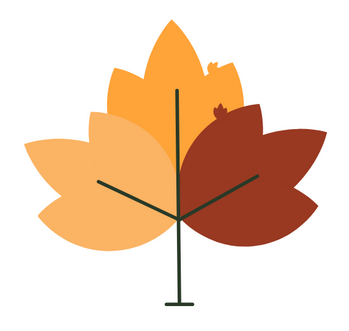
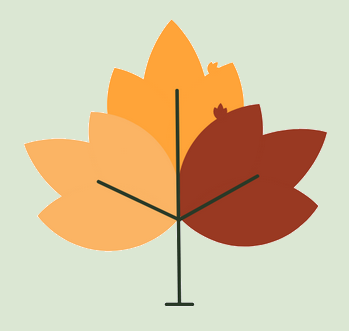
Changes to date in points history + authstore to make OAuth work + minor changes to forgot password

diff --git a/app/(modals)/points-history.jsx b/app/(modals)/points-history.jsx
@@ -15,62 +15,26 @@ import Gifts from "../../assets/images/Gifts.png";
 import Journal from "../../assets/images/Journal.png";
 import Breathe from "../../assets/images/Heart4.png";
 import Star from "../../assets/images/Star.png";
+import { getHabitTranslation } from '../../constants/habitTranslations';
+
 
 export default function PointsHistory() {
   const router = useRouter();
   const { t,currentLanguage } = useTranslation();
   const { pointsHistory, points, level, getLevelName,userHabits } = useAuthStore();
   
-  const toCamel = (id = '') =>
-    id
-      .split(/[^a-zA-Z0-9]+/)
-      .filter(Boolean)
-      .map((part, i) =>
-        i === 0 ? part.toLowerCase() : part.charAt(0).toUpperCase() + part.slice(1)
-      )
-      .join('');
-
-  // Get habit name from habit ID
   const getHabitName = (habitId) => {
-    const habit = userHabits.find(h => h.id === habitId);
-    if (!habit) {
-      // Try to get from translations if habit was removed
-      const key = `goals.${toCamel(habitId)}`;
-      const translated = t(key);
-      if (translated !== key) return translated;
-      
-      // Fallback: prettify the ID
-      return habitId.split('-').map(w => w.charAt(0).toUpperCase() + w.slice(1)).join(' ');
-    }
-
-    // Use the same logic as habit-stats getHabitText
-    if (habit.titleKey && typeof habit.titleKey === 'string') {
-      const translated = t(habit.titleKey);
-      if (translated !== habit.titleKey) return translated;
-    }
-
-    if (habit.text && typeof habit.text === 'string' && habit.text.includes('.')) {
-      const translated = t(habit.text);
-      if (translated !== habit.text) return translated;
-    }
-
-    if (habit.id) {
-      const key = `goals.${toCamel(habit.id)}`;
-      const translated = t(key);
-      if (translated !== key) return translated;
-    }
-
-    if (habit.title && typeof habit.title === 'string' && habit.title.length > 0) {
-      return habit.title;
-    }
-    if (habit.text && typeof habit.text === 'string' && habit.text.length > 0) {
-      return habit.text;
-    }
-
-    return habit.id
-      ? habit.id.split('-').map(w => w.charAt(0).toUpperCase() + w.slice(1)).join(' ')
-      : 'Habit';
-  };
+  const habit = userHabits.find(h => h.id === habitId);
+  
+  // If habit exists and has stored text/title, use it
+  if (habit) {
+    if (habit.text && !habit.text.includes('.')) return habit.text;
+    if (habit.title && !habit.title.includes('.')) return habit.title;
+  }
+  
+  // Otherwise use the centralized translation helper
+  return getHabitTranslation(habitId, t);
+};
 
   const getSourceIcon = (source) => {
     if (source.includes('habit')) return Notes;
@@ -133,7 +97,12 @@ export default function PointsHistory() {
 
   // Flattened list with date headers
   const flattenedData = Object.entries(groupedHistory)
-    .sort(([dateA], [dateB]) => new Date(dateB) - new Date(dateA)) // Sort by date desc
+    .sort(([dateA, itemsA], [dateB, itemsB]) => {
+  // Compare using the actual timestamps from the items
+  const timeA = new Date(itemsA[0].timestamp).getTime();
+  const timeB = new Date(itemsB[0].timestamp).getTime();
+  return timeB - timeA; // Newest (today) first
+}) // Sort by date desc
     .flatMap(([date, items]) => {
       const habitCount = items.filter(item => item.source.includes('habit-') && !item.source.includes('-undo')).length;
       const totalPoints = items.reduce((sum, item) => sum + item.amount, 0);
@@ -312,6 +281,7 @@ const styles = StyleSheet.create({
     //borderBottomWidth: 1,
     //borderBottomColor: '#e0e0e0',
     marginTop: 10,
+    marginBottom:10
     
   },
   dateHeaderLeft: {
@@ -325,6 +295,7 @@ const styles = StyleSheet.create({
   dateText: {
     fontSize: 16,
     color: '#333',
+    alignItems: 'center',
   },
   habitCountText: {
     fontSize: 12,

diff --git a/constants/habitTranslations.js b/constants/habitTranslations.js
@@ -1,0 +1,65 @@
+/**
+ * Get the translated habit title from a habit ID
+ * Handles all habit types: foundational, common, category-specific, and goal ideas
+ */
+export const getHabitTranslation = (habitId, t) => {
+  // Map of habit IDs to their translation keys
+  const translationKeyMap = {
+    // Foundational habits
+    'complete-goal': 'habits.foundation.dailyGoal',
+    'reflection': 'habits.foundation.writeReflection',
+    'affirmation': 'habits.foundation.affirmations',
+    'exercise': 'habits.foundation.exercise',
+    
+    // Common habits (with .title suffix)
+    'water-intake': 'habits.common.waterIntake.title',
+    'no-screen-before-bed': 'habits.common.noScreenBeforeBed.title',
+    'morning-exercise': 'habits.common.morningExercise.title',
+    'eat-fruit': 'habits.common.eatFruit.title',
+    'practice-gratitude': 'habits.common.practiceGratitude.title',
+    'pray': 'habits.common.pray.title',
+    'read-book': 'habits.common.readBook.title',
+    'breathing-exercises': 'habits.common.breathingExercises.title',
+    'reduce-sugar': 'habits.common.reduceSugar.title',
+    'anxiety-journal': 'habits.common.anxietyJournal.title',
+    'organize-space': 'habits.common.organizeSpace.title',
+    'take-breaks': 'habits.common.takeBreaks.title',
+    
+    // Category-specific habits (with .title suffix)
+    'deep-breathing': 'habits.anxietyManagement.deepBreathing.title',
+    'limit-caffeine': 'habits.anxietyManagement.limitCaffeine.title',
+    'sunlight-exposure': 'habits.depressionSupport.sunlightExposure.title',
+    'social-connection': 'habits.depressionSupport.socialConnection.title',
+    'bedtime-routine': 'habits.sleepIssues.bedtimeRoutine.title',
+    'bedroom-temperature': 'habits.sleepIssues.bedroomTemperature.title',
+    'meditation': 'habits.stressManagement.meditation.title',
+    'nature-time': 'habits.stressManagement.natureTime.title',
+  };
+
+  // 1. Check if we have an explicit mapping
+  if (translationKeyMap[habitId]) {
+    const translated = t(translationKeyMap[habitId]);
+    if (translated !== translationKeyMap[habitId]) {
+      return translated;
+    }
+  }
+
+  // 2. Try goals.* pattern (for goal ideas from goalIdeas.jsx)
+  const toCamel = (id) =>
+    id
+      .split(/[^a-zA-Z0-9]+/)
+      .filter(Boolean)
+      .map((part, i) =>
+        i === 0 ? part.toLowerCase() : part.charAt(0).toUpperCase() + part.slice(1)
+      )
+      .join('');
+      
+  const goalKey = `goals.${toCamel(habitId)}`;
+  const goalTranslated = t(goalKey);
+  if (goalTranslated !== goalKey) {
+    return goalTranslated;
+  }
+
+  // 3. Fallback: prettify the ID
+  return habitId.split('-').map(w => w.charAt(0).toUpperCase() + w.slice(1)).join(' ');
+};

diff --git a/app/(auth)/forgot-password.jsx b/app/(auth)/forgot-password.jsx
@@ -109,7 +109,7 @@ const ForgotPassword = () => {
           <BackButton />
           <ThemedView style={{ flexDirection: 'row', justifyContent: 'center', paddingVertical: 15 }}>
             <Image 
-              source={require('../../assets/images/leaf-green.png')}
+              source={require('../../assets/images/fallLeaf.png')}
               style={styles.headerImage} 
             />
           </ThemedView>
@@ -124,6 +124,10 @@ const ForgotPassword = () => {
           <ThemedView style={styles.container}>
             <ThemedText title={true} style={styles.title}>
               {t('auth.resetPasswordTitle')}
+            </ThemedText>
+
+            <ThemedText style={styles.subtitle}>
+              {t('auth.resetPasswordSubtitle')}
             </ThemedText>
             
 
@@ -224,10 +228,11 @@ const styles = StyleSheet.create({
     color: Colors.title,
   },
   subtitle: {
-    textAlign: "center",
-    fontSize: RD.wp(3.8),
+    //textAlign: "center",
+    fontSize: RD.wp(3.7),
     color: '#666',
-    paddingHorizontal: 20,
+    //flexWrap:'wrap',
+    //paddingHorizontal: 20,
   },
   inputContainer: {
     width: '100%',

diff --git a/app/_layout.jsx b/app/_layout.jsx
@@ -13,6 +13,8 @@ function RootLayoutNav() {
     isAuthenticated, 
     hasCompletedQuestionnaire, 
     questionnaireResults, 
+    userId,
+    isLoading,
     checkAuth } = useAuthStore();
   const segments = useSegments();
   const [isNavigationReady, setIsNavigationReady] = useState(false);
@@ -69,7 +71,7 @@ function RootLayoutNav() {
      if (!isNavigationReady || navigationInProgressRef.current) return;
 
     const navigationTimeout = setTimeout(() => {
-      const { showingResults } = useAuthStore.getState();
+      const { showingResults, userId, isLoading  } = useAuthStore.getState();
       const currentRoute = segments.join('/');
 
       const inAuthGroup = segments[0] === '(auth)';
@@ -114,7 +116,7 @@ function RootLayoutNav() {
       },200);
 
       return () => clearTimeout(navigationTimeout);
-  }, [isAuthenticated, hasCompletedQuestionnaire, segments, isNavigationReady]);
+  }, [isAuthenticated, hasCompletedQuestionnaire,questionnaireResults, segments, isNavigationReady]);
 
   return <Slot />;
 }

diff --git a/app/(auth)/login.jsx b/app/(auth)/login.jsx
@@ -243,8 +243,8 @@ const Login = () => {
                             />
                             {touched.password && errors.password && (
                                 <View style={styles.validationContainer}>
-                                    <Text style={styles.invalidMark}>⚠</Text>
-                                    <Text style={styles.errorMessage}>{errors.password}</Text>
+                                    <ThemedText style={styles.invalidMark}>⚠</ThemedText>
+                                    <ThemedText style={styles.errorMessage}>{errors.password}</ThemedText>
                                 </View>
                             )}
                         </View>

diff --git a/store/authStore.jsx b/store/authStore.jsx
@@ -215,6 +215,8 @@ loginWithGoogle: async (idToken) => {
 
       setItem("authData", authData);
 
+      set(authData);
+
       return { success: true, isNewUser };
     } else {
       set({ isLoading: false });